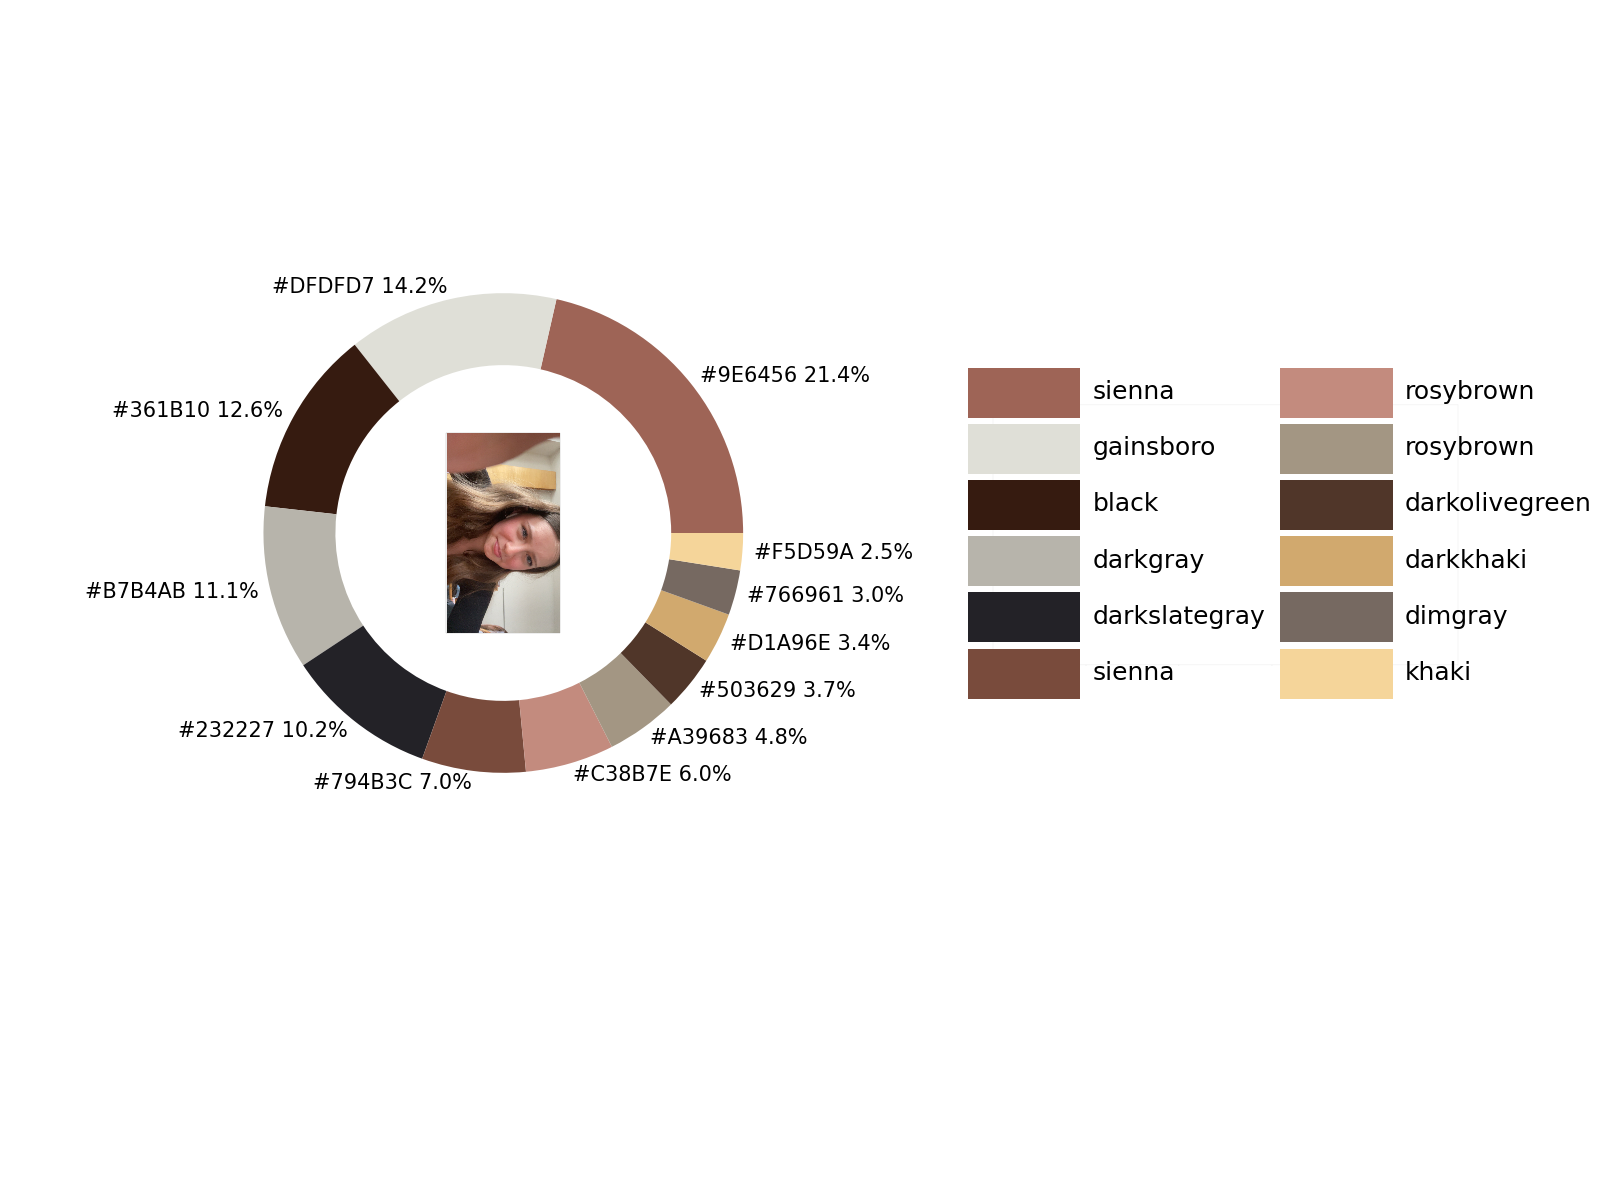
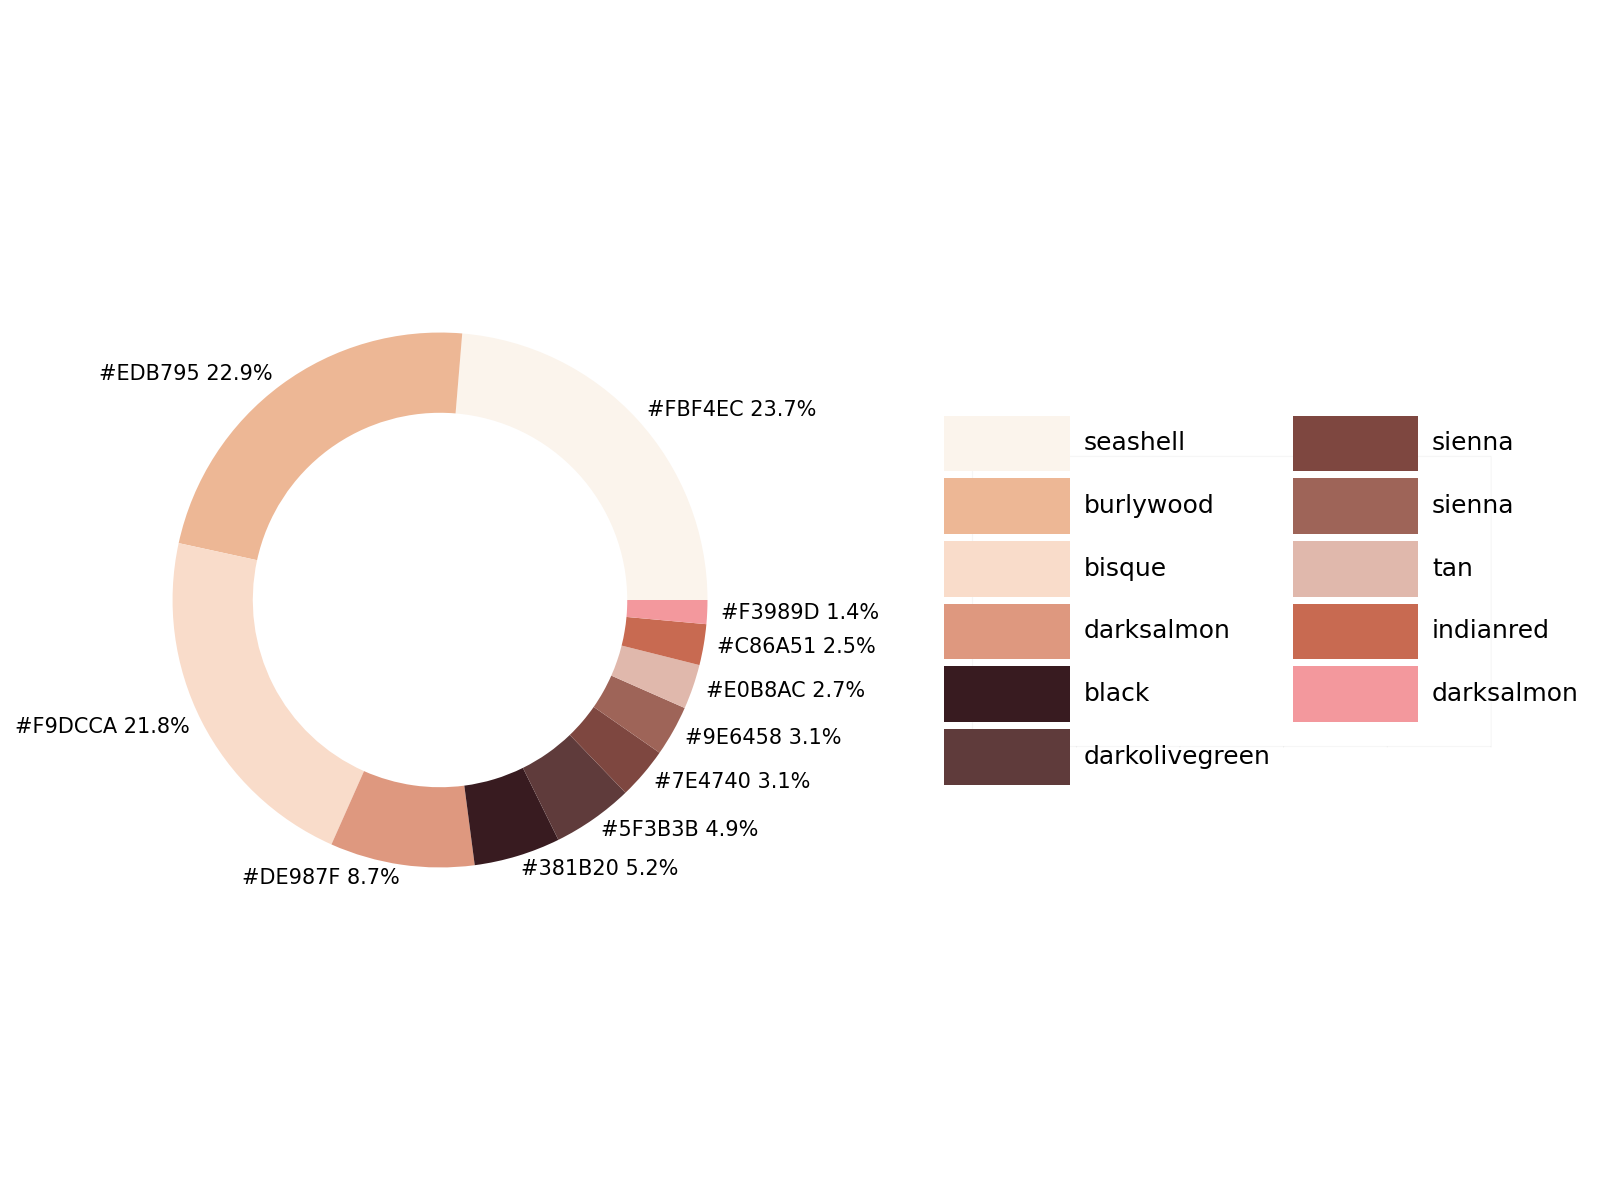
changes in color extraction

Changed region(s): [[0.0, 0.2158, 1.0, 0.74]]

diff --git a/scr/color_extraction.py b/scr/color_extraction.py
@@ -12,7 +12,12 @@ from scipy.spatial import KDTree
 from webcolors import hex_to_name, hex_to_rgb, CSS3_HEX_TO_NAMES
 
 
-def exact_color(input_image, resize, tolerance, zoom):
+# exact_color('../images/faces/image2.JPG', 900, 12, 0.9)
+# exact_color('../images/faces/image2.JPG', 900, 24, 2.5)
+# exact_color('../images/faces/image2.JPG', 900, 36, 2.5)
+# exact_color('../images/faces/image2.JPG', 900, 24, 4.5)
+# def exact_color(input_image, resize, tolerance, zoom):
+def exact_color():
     # background
     bg = 'bg.png'
     fig, ax = plt.subplots(figsize=(192, 108), dpi=10)
@@ -21,26 +26,36 @@ def exact_color(input_image, resize, tolerance, zoom):
     plt.close(fig)
 
     # resize
-    output_width = resize
-    img = Image.open(input_image)
-    if img.size[0] >= resize:
-        wpercent = (output_width / float(img.size[0]))
-        hsize = int((float(img.size[1]) * float(wpercent)))
-        img = img.resize((output_width, hsize), Image.LANCZOS)
-        resize_name = '../images/processed/resized_color_extraction.png'
-        img.save(resize_name)
-    else:
-        resize_name = input_image
+    # output_width = resize
+    # img = Image.open(input_image)
+    # if img.size[0] >= resize:
+    #     wpercent = (output_width / float(img.size[0]))
+    #     hsize = int((float(img.size[1]) * float(wpercent)))
+    #     img = img.resize((output_width, hsize), Image.LANCZOS)
+    #     resize_name = '../images/processed/resized_color_extraction.png'
+    #     img.save(resize_name)
+    # else:
+    #     resize_name = input_image
 
-    # Create dataframe
-    img_url = input_image
-    colors_x = extcolors.extract_from_path(img_url, tolerance=tolerance, limit=13)
-    df_color = color_to_df(colors_x)
+    # Read the images
+    img_url_face = cv2.imread('../images/processed/Face_oval_segmented.jpg')
+    img_url_hair = cv2.imread('../images/processed/hair_segmented.png')
+
+    # Combine the images horizontally
+    combined_image = cv2.hconcat([img_url_face, img_url_hair])
+
+    # Save the combined image to a file
+    combined_image_path = '../images/processed/General_segmented.jpg'
+    cv2.imwrite(combined_image_path, combined_image)
+
+    # Extract colors from the combined image
+    colors = extcolors.extract_from_path(combined_image_path, tolerance=12, limit=13)
+    df_color = color_to_df(colors)
 
     # Annotate text
     list_color = list(df_color['c_code'])
     list_color_name = list(df_color['c_name'])
-    list_precent = [int(i) for i in list(df_color['occurence'])]
+    list_precent = [int(i) for i in list(df_color['occurrence'])]
     text_c = [c + ' ' + str(round(p * 100 / sum(list_precent), 1)) + '%' for c, p in zip(list_color, list_precent)]
     fig, (ax1, ax2) = plt.subplots(1, 2, figsize=(160, 120), dpi=10)
 
@@ -53,10 +68,10 @@ def exact_color(input_image, resize, tolerance, zoom):
     plt.setp(wedges, width=0.3)
 
     # add image in the center of donut plot
-    img = mpimg.imread(resize_name)
-    imagebox = OffsetImage(img, zoom=zoom)
-    ab = AnnotationBbox(imagebox, (0, 0))
-    ax1.add_artist(ab)
+    # img = mpimg.imread(resize_name)
+    # imagebox = OffsetImage(img, zoom=zoom)
+    # ab = AnnotationBbox(imagebox, (0, 0))
+    # ax1.add_artist(ab)
 
     # color palette
     x_posi, y_posi, y_posi2 = 160, -170, -170
@@ -91,7 +106,7 @@ def exact_color(input_image, resize, tolerance, zoom):
     cv2.waitKey(0)
     cv2.destroyAllWindows()
 
-    return img
+    return df_color['c_rgb']
 
 
 def color_to_df(input):
@@ -99,6 +114,13 @@ def color_to_df(input):
     df_rgb_tuples = [tuple(map(int, i.split('), ')[0].replace('(', '').split(', '))) for i in colors_pre_list]
     df_rgb = [i.split('), ')[0] + ')' for i in colors_pre_list]
     df_percent = [i.split('), ')[1].replace(')', '') for i in colors_pre_list]
+
+    # Exclude black color
+    black_index = [i for i, color in enumerate(df_rgb_tuples) if color == (0, 0, 0)]
+    df_rgb_tuples = [color for i, color in enumerate(df_rgb_tuples) if i not in black_index]
+    df_rgb = [color for i, color in enumerate(df_rgb) if i not in black_index]
+    df_percent = [percent for i, percent in enumerate(df_percent) if i not in black_index]
+
     # Convert RGB to HEX code
     df_color_up = [rgb2hex(int(i.split(", ")[0].replace("(", "")),
                            int(i.split(", ")[1]),
@@ -106,9 +128,8 @@ def color_to_df(input):
 
     # Get color names
     color_names = [rgb_to_name(color) for color in df_rgb_tuples]
-    print(color_names)
 
-    df = pd.DataFrame(zip(df_color_up, color_names, df_percent), columns=['c_code', 'c_name', 'occurence'])
+    df = pd.DataFrame(zip(df_rgb, df_color_up, color_names, df_percent), columns=['c_rgb', 'c_code', 'c_name', 'occurrence'])
     return df
 
 
@@ -124,8 +145,3 @@ def rgb_to_name(rgb_tuple):
     kdt_db = KDTree(rgb_values)
     distance, index = kdt_db.query(rgb_tuple)
     return names[index] if index is not None else None
-
-exact_color('../images/faces/image2.JPG', 900, 12, 0.9)
-# exact_color('../images/faces/image2.JPG', 900, 24, 2.5)
-# exact_color('../images/faces/image2.JPG', 900, 36, 2.5)
-# exact_color('../images/faces/image2.JPG', 900, 24, 4.5)

diff --git a/scr/facial_areas_segmentation.py b/scr/facial_areas_segmentation.py
@@ -30,7 +30,7 @@ with mp_face_mesh.FaceMesh(
         refine_landmarks=True,
         min_detection_confidence=0.5) as face_mesh:
     # Read image file with cv2 and process with face_mesh
-    path_image = '../images/faces/image2.JPG'
+    path_image = '../images/faces/image3.png'
     image = cv2.imread(path_image)
     cv2.imshow("Image", image)
     results = face_mesh.process(cv2.cvtColor(image, cv2.COLOR_BGR2RGB))
@@ -99,37 +99,31 @@ if face_found:
 
     # https://www.youtube.com/watch?v=vE3IKPnztek
     landmarks = results.multi_face_landmarks[0]
-    face_oval = mp_face_mesh.FACEMESH_FACE_OVAL
-    df = pd.DataFrame(list(face_oval), columns=["p1", "p2"])
-    print(df)
-    routes_idx = []
 
+for area_name, area_indices in facial_areas.items():
+    # Create a DataFrame for the current facial area
+    df = pd.DataFrame(list(area_indices), columns=["p1", "p2"])
+
+    # Initialize variables
+    routes_idx = []
     p1 = df.iloc[0]["p1"]
     p2 = df.iloc[0]["p2"]
 
-    for i in range(0, df.shape[0]):
+    for i in range(df.shape[0]):
         obj = df[df["p1"] == p2]
-        print(obj)
         if not obj.empty:
             p1 = obj["p1"].values[0]
-            print(p1)
             p2 = obj["p2"].values[0]
-            print(p2)
         else:
             break
-        print(obj)
 
-        current_route = []
-        current_route.append(p1)
-        current_route.append(p2)
+        current_route = [p1, p2]
         routes_idx.append(current_route)
-
-    print(routes_idx[0:5])
 
     routes = []
     for source_idx, target_idx in routes_idx:
-        source = landmarks.landmark[source_idx]
-        target = landmarks.landmark[target_idx]
+        source = landmarks.landmark[int(source_idx)]
+        target = landmarks.landmark[int(target_idx)]
 
         relative_source = (int(source.x * image.shape[1]), int(source.y * image.shape[0]))
         relative_target = (int(target.x * image.shape[1]), int(target.y * image.shape[0]))
@@ -137,14 +131,14 @@ if face_found:
         routes.append(relative_source)
         routes.append(relative_target)
 
-    mask = np.zeros((image.shape[0], image.shape[1]))
+    mask = np.zeros((image.shape[0], image.shape[1]), dtype=np.uint8)
     mask = cv2.fillConvexPoly(mask, np.array(routes), 1)
     mask = mask.astype(bool)
 
     segmented_image = np.zeros_like(image)
     segmented_image[mask] = image[mask]
 
-    cv2.imwrite(f'../images/processed/face_oval_segmented.jpg', segmented_image)
+    cv2.imwrite(f'../images/processed/{area_name}_segmented.jpg', segmented_image)
 
 # Open image
 img = cv2.imread('../images/processed/face_oval_segmented.jpg')

diff --git a/scr/hair_segmentation.py b/scr/hair_segmentation.py
@@ -38,10 +38,10 @@ with ImageSegmenter.create_from_options(options) as segmenter:
     output_image = np.where(condition, image_data, [0, 0, 0])
 
     print(f'Blurred background of {path_image}:')
-    cv2.imwrite('../images/processed/hair_segmentation.png', output_image)
+    cv2.imwrite('../images/processed/hair_segmented.png', output_image)
 
 # Open image
-img = cv2.imread('../images/processed/hair_segmentation.png')
+img = cv2.imread('../images/processed/hair_segmented.png')
 cv2.imshow("segmentation", img)
 
 cv2.waitKey(0)

diff --git a/scr/main.py b/scr/main.py
@@ -1,0 +1,7 @@
+from scr.color_extraction import exact_color
+from scr.color_harmonization import create_rgb_palettes
+
+rgb_values = exact_color()
+print(rgb_values)
+generated_palettes = create_rgb_palettes(rgb_values)
+print(rgb_values)
